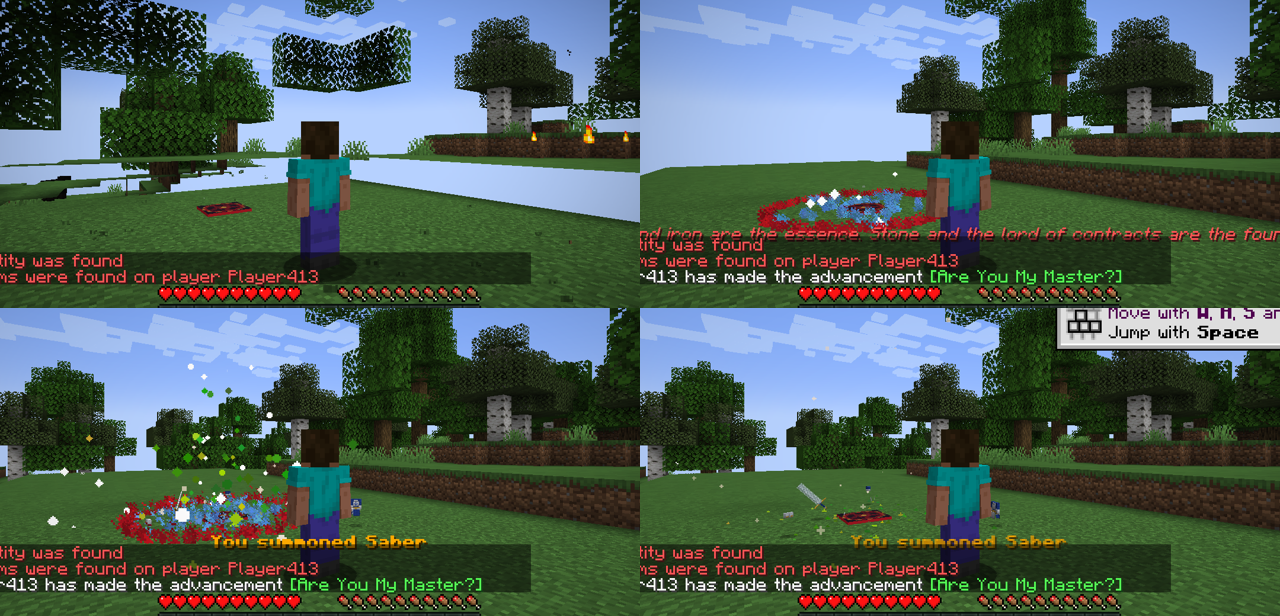
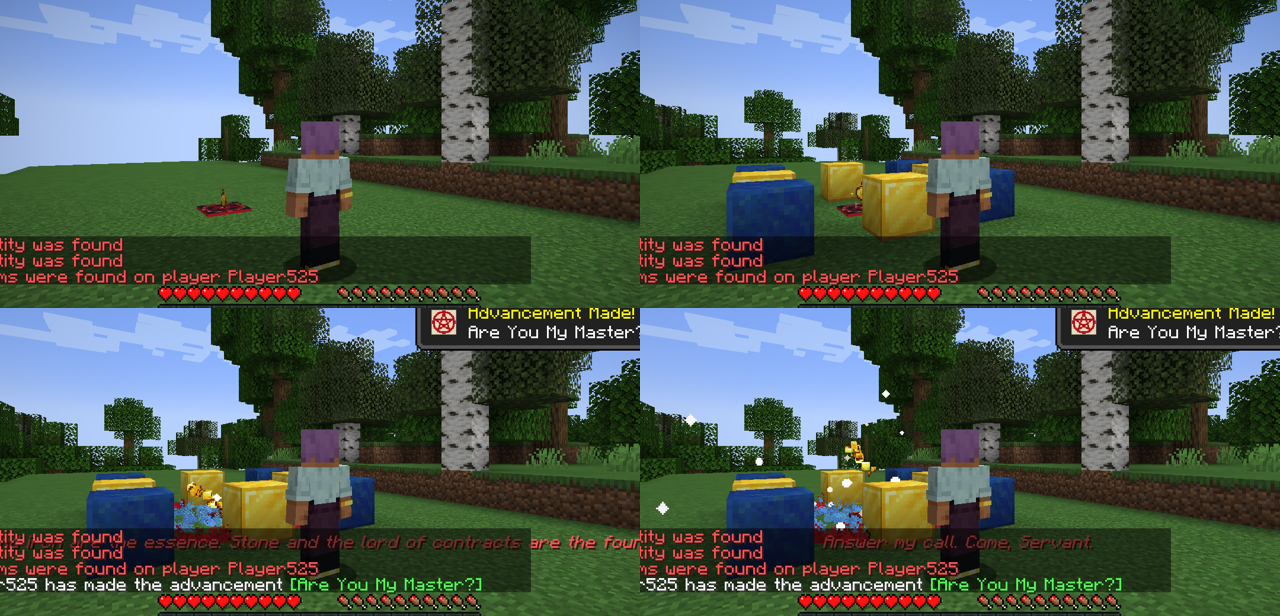
Altar de ritual: hace falta rodearlo de 4 bloques de oro y 4 de lapislázuli; el catalizador siempre se consume

diff --git a/src/main/java/com/nuwuman/fateubw/grail/SummoningAltarBlock.java b/src/main/java/com/nuwuman/fateubw/grail/SummoningAltarBlock.java
@@ -3,6 +3,7 @@ package com.nuwuman.fateubw.grail;
 import com.nuwuman.fateubw.FateUBW;
 import com.nuwuman.fateubw.ability.Mana;
 import net.minecraft.block.Block;
+import net.minecraft.block.Blocks;
 import net.minecraft.block.BlockState;
 import net.minecraft.block.ShapeContext;
 import net.minecraft.entity.Entity;
@@ -19,17 +20,22 @@ import net.minecraft.util.hit.BlockHitResult;
 import net.minecraft.util.math.BlockPos;
 import net.minecraft.util.math.Vec3d;
 import net.minecraft.util.math.random.Random;
+import java.util.ArrayList;
+import java.util.List;
 import net.minecraft.util.shape.VoxelShape;
 import net.minecraft.world.BlockView;
 import net.minecraft.world.World;
 
 /**
- * Altar de ritual: un círculo grabado en el suelo, reutilizable. Se invoca soltando un catalizador encima (o
- * dándoselo con click derecho): gasta maná, dibuja el círculo con su rayo y deja el equipo del servant en el centro.
+ * Altar de ritual: un círculo grabado en el suelo, reutilizable. Hay que rodearlo con cuatro bloques de oro (norte,
+ * sur, este y oeste, a dos bloques) y cuatro de lapislázuli (en las diagonales). Se invoca soltando un catalizador
+ * encima (o dándoselo con click derecho): se consume, gasta maná, dibuja el círculo con su rayo y deja el equipo del
+ * servant en el centro.
  */
 public class SummoningAltarBlock extends Block {
     private static final VoxelShape SHAPE = Block.createCuboidShape(0.0, 0.0, 0.0, 16.0, 1.0, 16.0);
     private static final double SUMMONER_RANGE = 16.0;
+    private static final int RING = 2;                       // a cuántos bloques del altar van los de alrededor
 
     public SummoningAltarBlock(Settings settings) {
         super(settings);
@@ -47,7 +53,7 @@ public class SummoningAltarBlock extends Block {
         ItemStack stack = item.getStack();
         if (!Servants.isCatalyst(stack)) return;
         PlayerEntity master = world.getClosestPlayer(item.getX(), item.getY(), item.getZ(), SUMMONER_RANGE, false);
-        if (master instanceof ServerPlayerEntity player && summon(server, pos, player, stack)) {
+        if (master instanceof ServerPlayerEntity player && summon(server, pos, player, stack, item.age % 40 == 0)) {
             if (stack.isEmpty()) item.discard();
         }
     }
@@ -60,19 +66,47 @@ public class SummoningAltarBlock extends Block {
             player.sendMessage(Text.translatable("message.fate_ubw.altar_needs_catalyst").formatted(Formatting.GRAY), true);
             return ActionResult.CONSUME;
         }
-        summon(server, pos, serverPlayer, held);
+        summon(server, pos, serverPlayer, held, true);
         return ActionResult.CONSUME;
     }
 
-    /** Empieza el ritual con un catalizador de 'stack' (se gasta uno). false si no pudo empezar. */
-    private static boolean summon(ServerWorld world, BlockPos pos, ServerPlayerEntity master, ItemStack stack) {
+    /** Los sitios de alrededor que aún no tienen su bloque (oro en los cuatro lados, lapislázuli en las diagonales). */
+    public static List<BlockPos> missing(World world, BlockPos altar) {
+        List<BlockPos> out = new ArrayList<>();
+        for (int dx = -1; dx <= 1; dx++) {
+            for (int dz = -1; dz <= 1; dz++) {
+                if (dx == 0 && dz == 0) continue;
+                BlockPos at = altar.add(dx * RING, 0, dz * RING);
+                Block wanted = dx == 0 || dz == 0 ? Blocks.GOLD_BLOCK : Blocks.LAPIS_BLOCK;
+                if (!world.getBlockState(at).isOf(wanted)) out.add(at);
+            }
+        }
+        return out;
+    }
+
+    /**
+     * Empieza el ritual con un catalizador del montón dado (se gasta uno, también en creativo). false si no pudo
+     * empezar: falta algún bloque de alrededor, maná o ya hay un ritual. 'tell' dice si avisar al amo.
+     */
+    private static boolean summon(ServerWorld world, BlockPos pos, ServerPlayerEntity master, ItemStack stack, boolean tell) {
         Vec3d center = Vec3d.ofBottomCenter(pos);
         if (SummoningCircleItem.ritualAt(world, center)) return false;
+        List<BlockPos> missing = missing(world, pos);
+        if (!missing.isEmpty()) {
+            if (tell) {
+                master.sendMessage(Text.translatable("message.fate_ubw.altar_incomplete", missing.size()).formatted(Formatting.RED), true);
+                for (BlockPos at : missing) {
+                    world.spawnParticles(ParticleTypes.SMOKE, at.getX() + 0.5, at.getY() + 0.6, at.getZ() + 0.5, 6, 0.2, 0.2, 0.2, 0.01);
+                }
+            }
+            return false;
+        }
         if (!Mana.has(master, FateUBW.SUMMONING_ALTAR_ITEM)) return false;
         Servants.Servant servant = Servants.byCatalyst(stack, world.random);
         Mana.spend(master, FateUBW.SUMMONING_ALTAR_ITEM);
-        if (!master.isCreative()) stack.decrement(1);
-        SummoningCircleItem.startRitual(world, center, servant, master);
+        ItemStack used = stack.copyWithCount(1);
+        stack.decrement(1);                                  // el catalizador siempre desaparece
+        SummoningCircleItem.startRitual(world, center, servant, master, used);
         return true;
     }
 
@@ -80,6 +114,11 @@ public class SummoningAltarBlock extends Block {
     @Override
     public void randomDisplayTick(BlockState state, World world, BlockPos pos, Random random) {
         if (random.nextInt(3) != 0) return;
+        // Con todos los bloques puestos brilla, y si no, solo respira
+        if (missing(world, pos).isEmpty() && random.nextInt(2) == 0) {
+            world.addParticle(ParticleTypes.END_ROD, pos.getX() + 0.5 + (random.nextDouble() - 0.5) * 0.8, pos.getY() + 0.2,
+                    pos.getZ() + 0.5 + (random.nextDouble() - 0.5) * 0.8, 0.0, 0.05, 0.0);
+        }
         double angle = random.nextDouble() * Math.PI * 2;
         world.addParticle(ParticleTypes.ENCHANT, pos.getX() + 0.5 + Math.cos(angle) * 0.45, pos.getY() + 0.1,
                 pos.getZ() + 0.5 + Math.sin(angle) * 0.45, 0.0, 0.4, 0.0);

diff --git a/src/main/java/com/nuwuman/fateubw/grail/SummoningCircleItem.java b/src/main/java/com/nuwuman/fateubw/grail/SummoningCircleItem.java
@@ -35,7 +35,7 @@ public class SummoningCircleItem extends Item {
     private static final DustParticleEffect CIRCLE = new DustParticleEffect(new Vector3f(0.85F, 0.1F, 0.15F), 1.2F);
     private static final DustParticleEffect RUNE = new DustParticleEffect(new Vector3f(0.4F, 0.7F, 1.0F), 1.0F);
 
-    private record Ritual(ServerWorld world, Vec3d center, Servants.Servant servant, UUID master, int[] age) {
+    private record Ritual(ServerWorld world, Vec3d center, Servants.Servant servant, UUID master, int[] age, ItemStack catalyst) {
     }
 
     private static final List<Ritual> RITUALS = new ArrayList<>();
@@ -55,11 +55,12 @@ public class SummoningCircleItem extends Item {
         Hand other = context.getHand() == Hand.MAIN_HAND ? Hand.OFF_HAND : Hand.MAIN_HAND;
         ItemStack catalyst = player.getStackInHand(other);
         Servants.Servant servant = Servants.byCatalyst(catalyst, world.random);
+        ItemStack used = Servants.isCatalyst(catalyst) ? catalyst.copyWithCount(1) : ItemStack.EMPTY;
         if (!player.isCreative()) {
             context.getStack().decrement(1);
             if (Servants.isCatalyst(catalyst)) catalyst.decrement(1);
         }
-        startRitual(world, Vec3d.ofBottomCenter(context.getBlockPos().up()), servant, player);
+        startRitual(world, Vec3d.ofBottomCenter(context.getBlockPos().up()), servant, player, used);
         return ActionResult.CONSUME;
     }
 
@@ -71,11 +72,14 @@ public class SummoningCircleItem extends Item {
         return false;
     }
 
-    /** Empieza un ritual en 'center': dibuja el círculo, canta y, a los 3 s, deja el equipo del servant. */
-    public static void startRitual(ServerWorld world, Vec3d center, Servants.Servant servant, PlayerEntity master) {
+    /**
+     * Empieza un ritual en el punto dado: dibuja el círculo, canta y, a los 3 s, deja el equipo del servant. El último
+     * parámetro es una copia del catalizador que se consume (vacía si no hay): se ve deshacerse en el aire mientras dura.
+     */
+    public static void startRitual(ServerWorld world, Vec3d center, Servants.Servant servant, PlayerEntity master, ItemStack catalyst) {
         if (master instanceof net.minecraft.server.network.ServerPlayerEntity serverPlayer)
             com.nuwuman.fateubw.Achievements.summoned(serverPlayer, servant.id());
-        RITUALS.add(new Ritual(world, center, servant, master.getUuid(), new int[]{0}));
+        RITUALS.add(new Ritual(world, center, servant, master.getUuid(), new int[]{0}, catalyst));
         world.playSound(null, center.x, center.y, center.z, SoundEvents.BLOCK_END_PORTAL_FRAME_FILL, SoundCategory.PLAYERS, 1.5F, 0.6F);
     }
 
@@ -104,6 +108,14 @@ public class SummoningCircleItem extends Item {
                 world.spawnParticles(RUNE, c.x + (Math.cos(a0) * (1 - t) + Math.cos(a1) * t) * 1.8, c.y + 0.05,
                         c.z + (Math.sin(a0) * (1 - t) + Math.sin(a1) * t) * 1.8, 1, 0.0, 0.0, 0.0, 0.0);
             }
+        }
+        // El catalizador se deshace: sus trozos suben girando hacia el centro del círculo
+        if (!ritual.catalyst().isEmpty()) {
+            net.minecraft.particle.ItemStackParticleEffect crumbs =
+                    new net.minecraft.particle.ItemStackParticleEffect(ParticleTypes.ITEM, ritual.catalyst());
+            double a = age * 0.35;
+            world.spawnParticles(crumbs, c.x + Math.cos(a) * (0.9 - progress * 0.7), c.y + 0.3 + progress * 1.6,
+                    c.z + Math.sin(a) * (0.9 - progress * 0.7), 3, 0.05, 0.05, 0.05, 0.01);
         }
         if (age % 4 == 0) world.spawnParticles(ParticleTypes.END_ROD, c.x, c.y + 0.2, c.z, 4, 0.8, 0.1, 0.8, 0.05 + progress * 0.2);
         if (age % 20 == 0) world.playSound(null, c.x, c.y, c.z, SoundEvents.BLOCK_BEACON_AMBIENT, SoundCategory.PLAYERS, 2.0F, 0.5F + progress);

diff --git a/docs/contenido.md b/docs/contenido.md
@@ -39,7 +39,7 @@ lleno y mejoras 30 s; uno por día) y logros propios.
 | **Joya de Tohsaka** | Rin | Se lanza y explota | — |
 | **Póster reforzado** | Shirou | Pega como una espada de hierro | Clic derecho: repara lo de la otra mano y da Fuerza I. |
 | **Zelzeriz** | Illya | Tres pájaros de alambre atacan 15 s | — |
-| **Altar de ritual** (bloque) | — | Colócalo y suelta encima un catalizador (o dáselo con clic derecho): gasta 30 de maná, canta el conjuro y deja el equipo del servant | — |
+| **Altar de ritual** (bloque) | — | Rodéalo a 2 bloques con 4 de oro (N, S, E, O) y 4 de lapislázuli (diagonales); suelta encima un catalizador (o dáselo con clic derecho): se consume, gasta 30 de maná, canta el conjuro y deja el equipo del servant | — |
 | Círculo de invocación (ítem antiguo) | — | Clic derecho en el suelo con un catalizador en la otra mano: aparece el equipo del servant. Ya no sale en el creativo ni tiene receta | — |
 | **Santo Grial** | Guerra del Grial | Clic derecho: elige un servant y te da su equipo, vida, maná y sellos | — |
 
